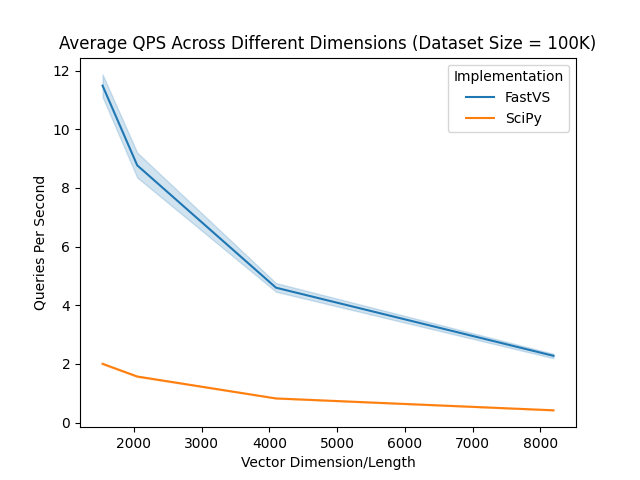
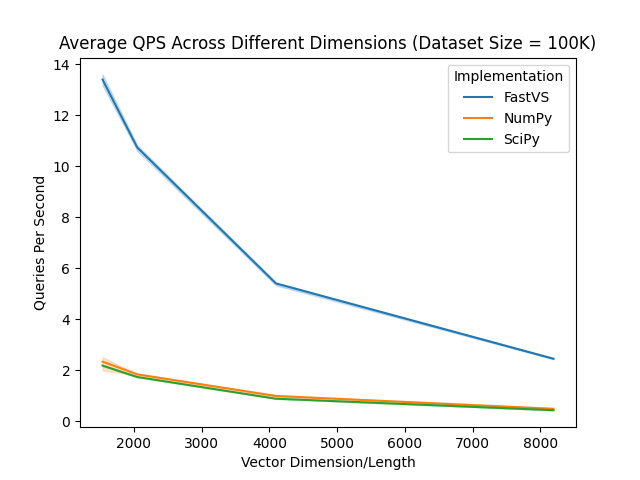
Adding numpy

diff --git a/experiments/plot.py b/experiments/plot.py
@@ -4,7 +4,7 @@ import matplotlib.pyplot as plt
 import pandas as pd
 import time
 from fastvs import search_arrow
-from tests.utils import numpy_knn, create_dataset
+from tests.utils import numpy_knn, create_dataset, scipy_knn
 
 
 def execute_with_timer(func, *args, **kwargs):
@@ -20,7 +20,7 @@ dimensions = [1536, 2048, 4096, 8192]  # Varying dimensions
 k = 10
 metric = "cosine_similarity"
 results_dims = []
-num_trials = 10  # Number of trials
+num_trials = 5  # Number of trials
 
 # Run the experiment for various dimensions
 for dim in dimensions:
@@ -34,24 +34,43 @@ for dim in dimensions:
         )
         rust_qps = 1 / rust_time
 
+        data = table["points"].to_numpy()
+
         # Time NumPy implementation
-        numpy_time, _ = execute_with_timer(numpy_knn, table, query_point, k, metric)
+        numpy_time, _ = execute_with_timer(numpy_knn, data, query_point, k, metric)
         numpy_qps = 1 / numpy_time
+
+        # Time SciPy implementation
+        scipy_time, _ = execute_with_timer(scipy_knn, data, query_point, k, metric)
+
+        scipy_qps = 1 / scipy_time
 
         # Record results for dimensions
         results_dims.append(
             {"Dimension": dim, "Implementation": "FastVS", "QPS": rust_qps}
         )
         results_dims.append(
-            {"Dimension": dim, "Implementation": "SciPy", "QPS": numpy_qps}
+            {"Dimension": dim, "Implementation": "NumPy", "QPS": numpy_qps}
+        )
+        results_dims.append(
+            {"Dimension": dim, "Implementation": "SciPy", "QPS": scipy_qps}
         )
 
 # Convert results to DataFrame and calculate average QPS for each dimension and implementation
+df_dims = pd.DataFrame(results_dims)
+
+
+def drop_extreme_qps(group):
+    lowest_qps = group["QPS"].nsmallest(1)
+    highest_qps = group["QPS"].nlargest(1)
+    return group.drop(lowest_qps.index).drop(highest_qps.index)
+
+
+# Drop the lowest and highest QPS values for each implementation and dimension
 df_dims = (
-    pd.DataFrame(results_dims)
-    # .groupby(["Dimension", "Implementation"])
-    # .mean()
-    # .reset_index()
+    df_dims.groupby(["Dimension", "Implementation"])
+    .apply(drop_extreme_qps)
+    .reset_index(drop=True)
 )
 
 # Plotting for various dimensions
@@ -62,56 +81,56 @@ plt.ylabel("Queries Per Second")
 # plt.tight_layout()
 plt.savefig("experiments/plots/dimensions.png")
 
-# Experiment settings for various dataset sizes
-dimensions = [1536]  # Fixed dimension
-dataset_sizes = [
-    1000,
-    5000,
-    10000,
-    50000,
-    100000,
-]  # Varying dataset sizes
-results_sizes = []
+# # Experiment settings for various dataset sizes
+# dimensions = [1536]  # Fixed dimension
+# dataset_sizes = [
+#     1000,
+#     5000,
+#     10000,
+#     50000,
+#     100000,
+# ]  # Varying dataset sizes
+# results_sizes = []
 
-# Run the experiment for various dataset sizes
-for num_rows in dataset_sizes:
-    for _ in range(num_trials):
-        query_point = np.random.rand(dimensions[0])
-        table = create_dataset(num_rows, dimensions[0])
+# # Run the experiment for various dataset sizes
+# for num_rows in dataset_sizes:
+#     for _ in range(num_trials):
+#         query_point = np.random.rand(dimensions[0])
+#         table = create_dataset(num_rows, dimensions[0])
 
-        # Time Rust implementation
-        rust_time, _ = execute_with_timer(
-            search_arrow, table, "points", query_point.tolist(), k, metric
-        )
-        rust_qps = 1 / rust_time
+#         # Time Rust implementation
+#         rust_time, _ = execute_with_timer(
+#             search_arrow, table, "points", query_point.tolist(), k, metric
+#         )
+#         rust_qps = 1 / rust_time
 
-        # Time NumPy implementation
-        numpy_time, _ = execute_with_timer(numpy_knn, table, query_point, k, metric)
-        numpy_qps = 1 / numpy_time
+#         # Time NumPy implementation
+#         numpy_time, _ = execute_with_timer(numpy_knn, table, query_point, k, metric)
+#         numpy_qps = 1 / numpy_time
 
-        # Record results for dataset sizes
-        results_sizes.append(
-            {"Dataset Size": num_rows, "Implementation": "FastVS", "QPS": rust_qps}
-        )
-        results_sizes.append(
-            {"Dataset Size": num_rows, "Implementation": "SciPy", "QPS": numpy_qps}
-        )
+#         # Record results for dataset sizes
+#         results_sizes.append(
+#             {"Dataset Size": num_rows, "Implementation": "FastVS", "QPS": rust_qps}
+#         )
+#         results_sizes.append(
+#             {"Dataset Size": num_rows, "Implementation": "SciPy", "QPS": numpy_qps}
+#         )
 
-# Convert results to DataFrame and calculate average QPS for each dataset size and implementation
-df_sizes = (
-    pd.DataFrame(results_sizes)
-    # .groupby(["Dataset Size", "Implementation"])
-    # .mean()
-    # .reset_index()
-)
+# # Convert results to DataFrame and calculate average QPS for each dataset size and implementation
+# df_sizes = (
+#     pd.DataFrame(results_sizes)
+#     # .groupby(["Dataset Size", "Implementation"])
+#     # .mean()
+#     # .reset_index()
+# )
 
-# Clear
-plt.clf()
+# # Clear
+# plt.clf()
 
-# Plotting for various dataset sizes
-sns.lineplot(data=df_sizes, x="Dataset Size", y="QPS", hue="Implementation")
-plt.title("Average QPS Across Different Dataset Sizes (Dimension = 1536)")
-plt.xlabel("Dataset Size")
-plt.ylabel("Queries Per Second")
-# plt.tight_layout()
-plt.savefig("experiments/plots/datasetsizes.png")
+# # Plotting for various dataset sizes
+# sns.lineplot(data=df_sizes, x="Dataset Size", y="QPS", hue="Implementation")
+# plt.title("Average QPS Across Different Dataset Sizes (Dimension = 1536)")
+# plt.xlabel("Dataset Size")
+# plt.ylabel("Queries Per Second")
+# # plt.tight_layout()
+# plt.savefig("experiments/plots/datasetsizes.png")

diff --git a/tests/utils.py b/tests/utils.py
@@ -18,10 +18,10 @@ def create_dataset(num_rows=1_000, num_dims=DIM):
     return table
 
 
-# Define a helper function for calculating nearest neighbors using NumPy
-def numpy_knn(table, query_point, k, metric):
+# Define a helper function for calculating nearest neighbors using SciPy
+def scipy_knn(data, query_point, k, metric):
     # Convert to numpy
-    data = table["points"].to_numpy()
+    # data = table["points"].to_numpy()
     data = np.vstack(data)  # Convert list of arrays to 2D array
 
     if metric == "euclidean":
@@ -44,58 +44,24 @@ def numpy_knn(table, query_point, k, metric):
     return indices
 
 
-# TODO: fix this because it's not working
+# Define a helper function for calculating nearest neighbors using NumPy
+def numpy_knn(data, query_point, k, metric):
+    # Convert to numpy
+    data = np.vstack(data)  # Convert list of arrays to 2D array
 
-# def _flatten_data(table):
-#     # Assuming 'points' is a column of lists, we flatten it
-#     flat_data = pc.list_flatten(table.column("points"))
-#     # Calculate the number of elements in each list (assuming uniform length)
-#     num_elements = pc.list_value_length(table.column("points")[0]).as_py()
-#     return flat_data, num_elements
+    if metric == "euclidean":
+        dists = np.linalg.norm(data - query_point, axis=1)
+        indices = np.argpartition(dists, k)[:k]
+    elif metric == "manhattan":
+        dists = np.sum(np.abs(data - query_point), axis=1)
+        indices = np.argpartition(dists, k)[:k]
+    elif metric == "cosine_similarity":
+        dists = np.dot(data, query_point) / (
+            np.linalg.norm(data, axis=1) * np.linalg.norm(query_point)
+        )
+        indices = np.argpartition(dists, -k)[-k:]
+    elif metric == "inner_product":
+        dists = np.dot(data, query_point).flatten()
+        indices = np.argpartition(dists, -k)[-k:]
 
-# def pyarrow_knn(table, query_point, k, metric):
-#     # Get the pyarrow array
-#     data = table["points"]
-#     flat_data, num_elements = _flatten_data(table)
-#     # query_point_array = pa.array(query_point * (len(flat_data) // num_elements))
-
-#     query_point_array = pa.array(query_point * len(flat_data))
-
-#     print(query_point_array.shape)
-#     print(flat_data.shape)
-
-#     if metric == "euclidean":
-#         # Compute distances with pyarrow array functions
-#         dists = pc.power(
-#             pc.sum(pc.power(pc.subtract(flat_data, query_point_array), 2), axis=1), 0.5
-#         )
-
-#     elif metric == "manhattan":
-#         dists = pc.sum(pc.abs(pc.subtract(flat_data, query_point_array)), axis=1)
-
-#     elif metric == "cosine_similarity":
-#         # Dot product of each vector in data with the query point
-#         dot_product = pc.sum(pc.multiply(flat_data, query_point_array), axis=1)
-
-#         # Magnitude (Euclidean norm) of each vector in data
-#         magnitude_data = pc.sum(pc.power(flat_data, 2), axis=1) ** 0.5
-
-#         # Magnitude of the query point
-#         magnitude_query = pc.sum(pc.power(query_point_array, 2), axis=1) ** 0.5
-
-#         # Cosine similarity
-#         dists = pc.divide(dot_product, pc.multiply(magnitude_data, magnitude_query))
-#     elif metric == "inner_product":
-#         # Calculate inner product
-#         dists = pc.sum(pc.multiply(flat_data, query_point_array), axis=1)
-
-#     # Find the indices of the k smallest distances
-#     pivot = (
-#         k - 1
-#         if metric not in ["inner_product", "cosine_similarity"]
-#         else len(dists) - k
-#     )
-#     partition_indices = pc.partition_nth_indices(dists, pivot)
-#     top_k_indices = pc.slice(partition_indices, 0, k)
-
-#     return top_k_indices.to_pylist()
+    return indices

diff --git a/tests/test_correctness.py b/tests/test_correctness.py
@@ -1,0 +1,72 @@
+import numpy as np
+import pyarrow as pa
+import pandas as pd
+import pytest
+from fastvs import search_arrow
+
+from .utils import scipy_knn, create_dataset, numpy_knn
+
+DIM = 1536
+
+
+# Define test functions for each metric
+@pytest.mark.parametrize(
+    "metric", ["euclidean", "manhattan", "cosine_similarity", "inner_product"]
+)
+def test_knn_consistency_scipy(metric):
+    num_rows = 1000  # Reduced number for testing
+    k = 10
+    query_point = np.random.rand(DIM)
+
+    # Create dataset
+    table = create_dataset(num_rows, DIM)
+
+    # Get indices from Rust implementation
+    rust_indices, _ = search_arrow(table, "points", query_point.tolist(), k, metric)
+
+    # Get indices from SciPy implementation
+    data = table["points"].to_numpy()
+    scipy_indices = scipy_knn(data, query_point, k, metric)
+
+    # Sort both indices lists
+    rust_indices.sort()
+    scipy_indices.sort()
+
+    print(rust_indices)
+    print(scipy_indices)
+
+    assert all(
+        rust_index == scipy_index
+        for rust_index, scipy_index in zip(rust_indices, scipy_indices)
+    )
+
+
+@pytest.mark.parametrize(
+    "metric", ["euclidean", "manhattan", "cosine_similarity", "inner_product"]
+)
+def test_knn_consistency_numpy(metric):
+    num_rows = 1000  # Reduced number for testing
+    k = 10
+    query_point = np.random.rand(DIM)
+
+    # Create dataset
+    table = create_dataset(num_rows, DIM)
+
+    # Get indices from Rust implementation
+    rust_indices, _ = search_arrow(table, "points", query_point.tolist(), k, metric)
+
+    # Get indices from np implementation
+    data = table["points"].to_numpy()
+    numpy_indices = numpy_knn(data, query_point, k, metric)
+
+    # Sort both indices lists
+    rust_indices.sort()
+    numpy_indices.sort()
+
+    print(rust_indices)
+    print(numpy_indices)
+
+    assert all(
+        rust_index == numpy_index
+        for rust_index, numpy_index in zip(rust_indices, numpy_indices)
+    )

diff --git a/tests/test_speed.py b/tests/test_speed.py
@@ -2,7 +2,7 @@ import numpy as np
 import pytest
 from fastvs import search_arrow
 import time
-from .utils import numpy_knn, create_dataset
+from .utils import numpy_knn, create_dataset, scipy_knn
 
 DIM = 1536
 
@@ -28,14 +28,20 @@ def test_knn_speed_against_scipy(metric):
 
     # Get time from Rust implementation
     rust_time = execute_with_timer(
-        search_arrow, table, "points", query_point.tolist(), k, metric
+        search_arrow, table, "points", query_point, k, metric
     )
 
+    # Get time from SciPy implementation
+    data = table["points"].to_numpy()
+    scipy_time = execute_with_timer(scipy_knn, data, query_point, k, metric)
+
     # Get time from NumPy implementation
-    numpy_time = execute_with_timer(numpy_knn, table, query_point, k, metric)
+    numpy_time = execute_with_timer(numpy_knn, data, query_point, k, metric)
 
     print(f"Rust time: {rust_time}")
+    print(f"SciPy time: {scipy_time}")
     print(f"NumPy time: {numpy_time}")
+    assert rust_time < scipy_time
     assert rust_time < numpy_time
 
 

diff --git a/README.md b/README.md
@@ -8,7 +8,7 @@ FastVS (Fast Vector Search) is a Python library designed for exact vector search
 
 Note: FastVS only supports f64 (64-bit floating point) vectors as of now.
 
-Here is a rough comparison of the performance of FastVS vs. scipy.spatial.distance.cdist for cosine similarity (over 10 trials):
+Here is a rough comparison of the performance of FastVS vs. numpy and scipy.spatial.distance.cdist for cosine similarity (over 5 trials):
 
 ![Dimension Comparison](experiments/plots/dimensions.png)
 
